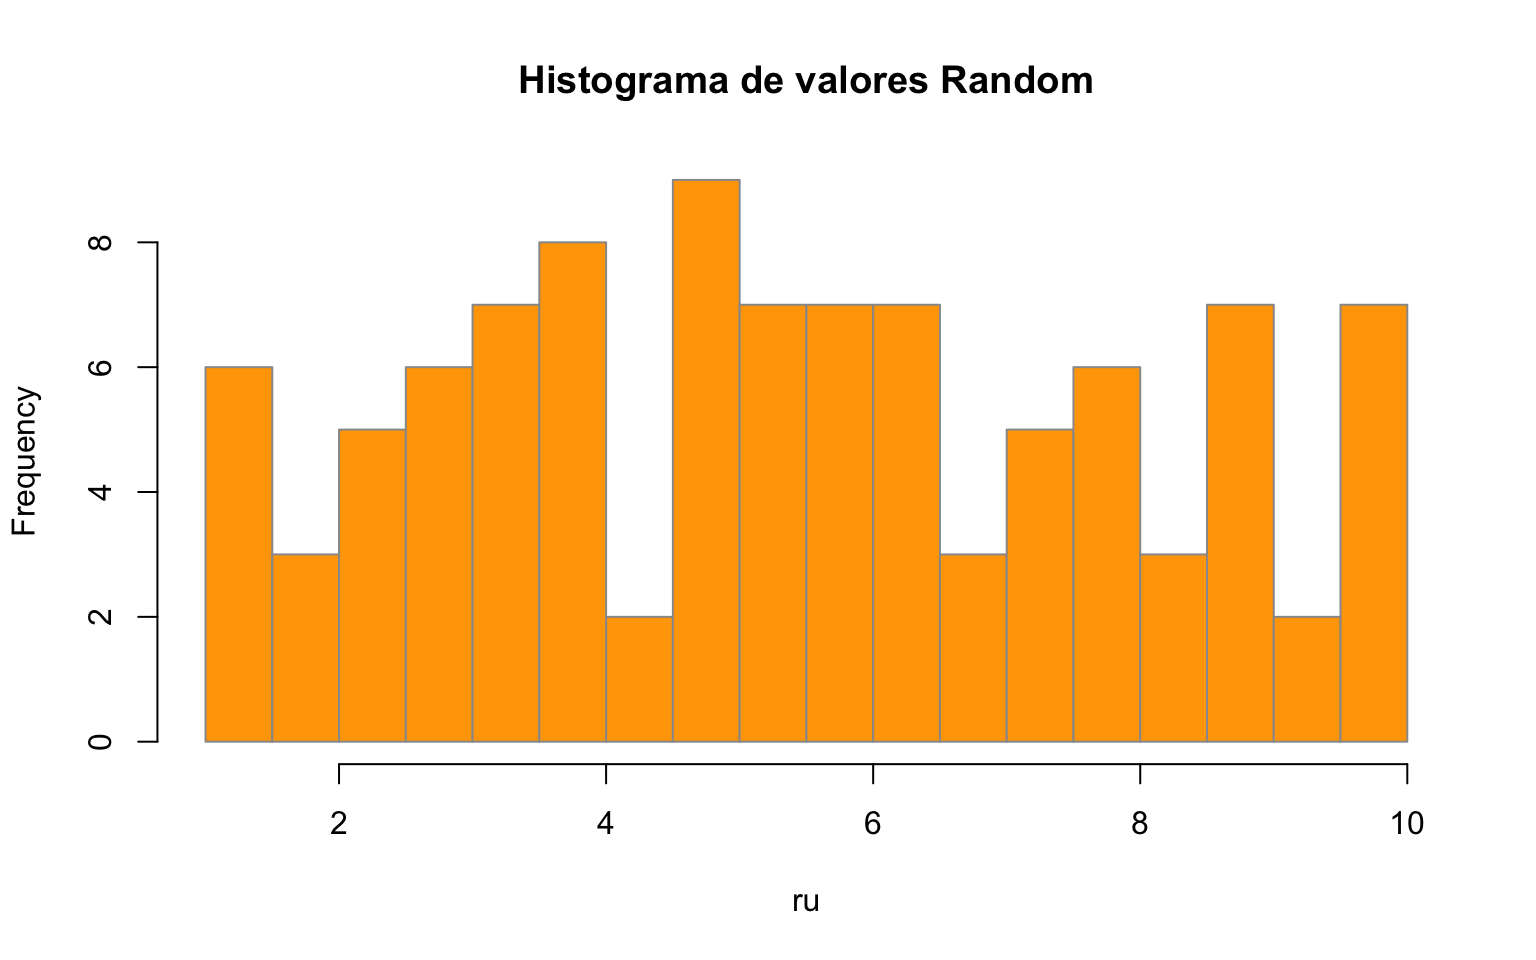
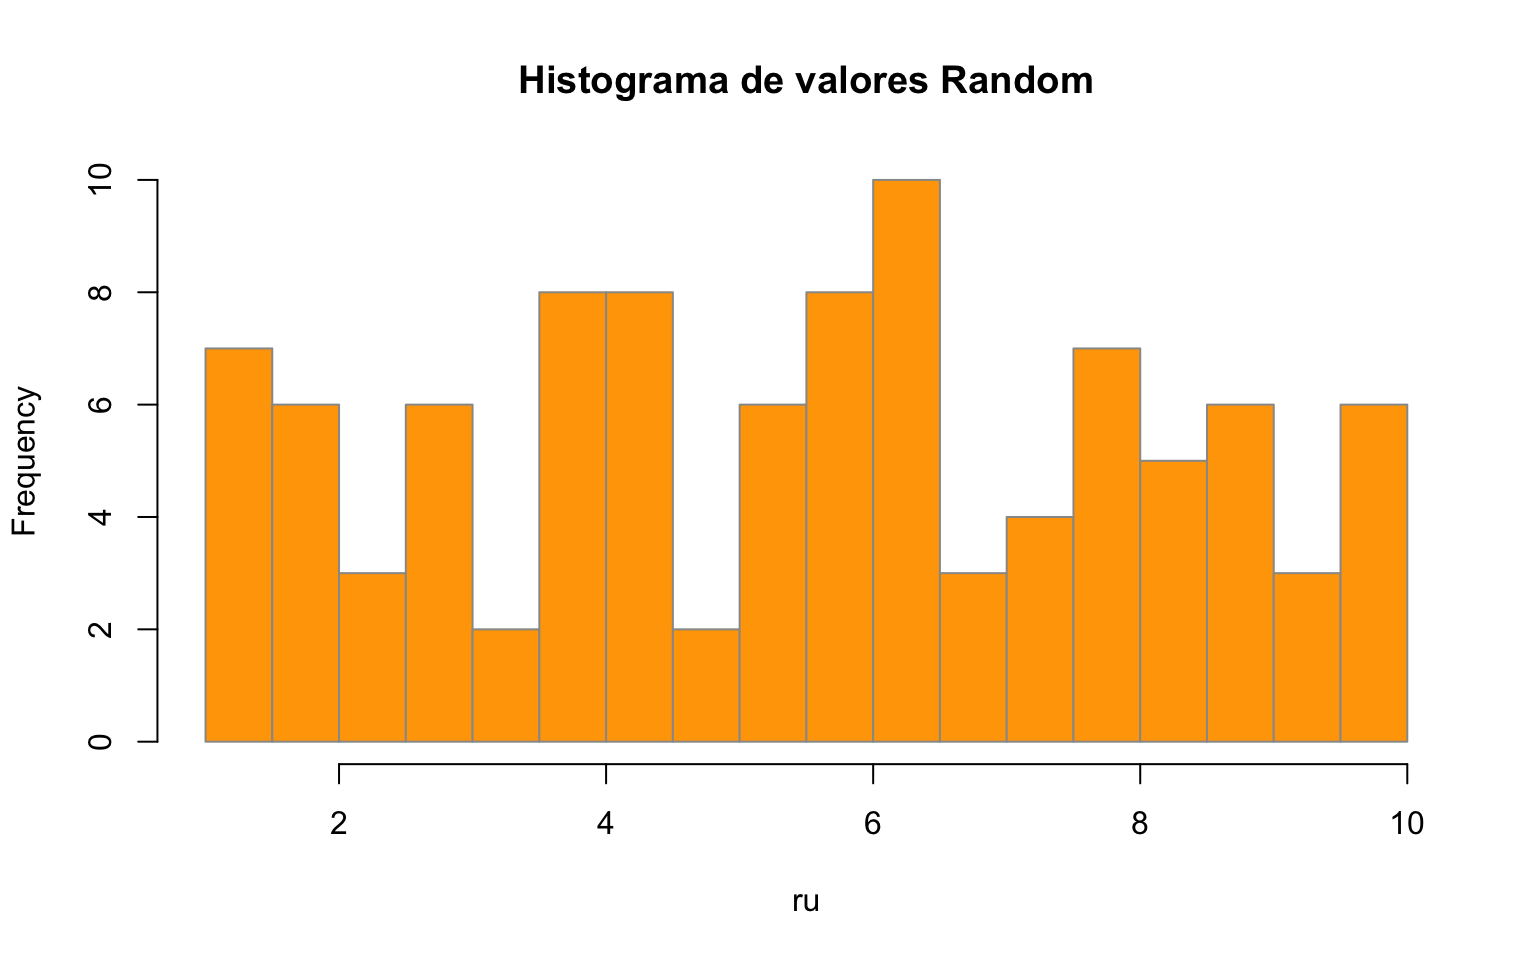
Built site for gh-pages

diff --git a/variables.html b/variables.html
@@ -340,19 +340,19 @@ pre > code.sourceCode > span > a:first-child::before { text-decoration: underlin
 <div class="sourceCode cell-code" id="cb7"><pre class="sourceCode r code-with-copy"><code class="sourceCode r"><span id="cb7-1"><a href="#cb7-1" aria-hidden="true" tabindex="-1"></a>ru <span class="ot">&lt;-</span> <span class="fu">runif</span>(<span class="at">n =</span> <span class="dv">100</span>, <span class="at">min =</span> <span class="dv">1</span>, <span class="at">max =</span> <span class="dv">10</span>)</span>
 <span id="cb7-2"><a href="#cb7-2" aria-hidden="true" tabindex="-1"></a>ru</span></code><button title="Copy to Clipboard" class="code-copy-button"><i class="bi"></i></button></pre></div>
 <div class="cell-output cell-output-stdout">
-<pre><code>  [1] 9.364794 9.405961 3.446937 1.143657 7.790617 6.331680 2.708188 8.525973
-  [9] 8.906059 3.911772 3.098803 4.347637 6.595388 1.684706 2.334308 2.964585
- [17] 2.299208 1.116792 7.075490 3.612429 5.896548 5.872014 6.139632 5.970821
- [25] 9.523985 5.026969 1.267298 6.040796 7.617490 3.744160 4.698695 6.129231
- [33] 7.539459 3.617860 3.609901 7.159684 6.247145 7.318131 2.551194 7.827134
- [41] 9.992904 4.645220 5.410871 9.939177 2.020247 9.840037 8.634489 8.747000
- [49] 9.767455 4.875300 3.943289 2.417178 9.795464 2.932537 1.308880 3.477499
- [57] 6.677996 9.516599 5.043260 5.885177 1.700747 4.669974 2.116707 5.304769
- [65] 8.793404 5.908590 7.174680 4.603505 7.747249 1.105016 8.431045 4.724835
- [73] 6.555342 3.609526 4.564234 3.099936 1.524147 8.018052 5.053753 3.223383
- [81] 4.821939 4.829116 3.294089 8.718067 3.091855 8.785385 1.374672 5.837628
- [89] 3.725694 5.780100 2.740712 7.554109 8.261153 4.395239 5.445585 5.234130
- [97] 7.109613 2.879535 6.485976 6.475617</code></pre>
+<pre><code>  [1] 9.766558 4.001305 2.674470 4.972460 1.377751 1.547231 9.592827 2.224902
+  [9] 6.395265 3.799361 9.569484 2.708178 1.589698 5.749328 1.427828 6.174432
+ [17] 8.435741 4.284370 6.026694 3.104485 9.608855 2.956097 1.942268 4.393382
+ [25] 1.568334 6.122131 5.256843 5.794737 3.924833 3.098238 9.557566 7.358962
+ [33] 1.232510 9.430014 5.581208 5.176501 1.414530 6.668074 1.415873 7.623618
+ [41] 8.876425 1.919855 8.710305 8.192844 8.153621 2.954293 4.102796 8.047436
+ [49] 5.839864 8.705719 2.435396 4.723213 6.860243 7.133437 9.371508 6.402924
+ [57] 2.711268 3.752204 1.977271 2.924585 6.685768 7.775030 2.043515 6.296905
+ [65] 9.253475 1.130046 6.478114 5.540516 6.065325 7.924649 3.999301 5.410898
+ [73] 7.885833 1.262563 4.151931 8.492371 7.743649 8.898496 5.289776 3.881800
+ [81] 8.516928 5.097212 8.843910 6.297773 5.508570 4.285822 4.368533 3.931727
+ [89] 3.539449 7.113213 4.158376 7.029794 3.709491 9.749183 7.518263 5.947302
+ [97] 5.475071 5.545592 7.825252 6.195130</code></pre>
 </div>
 </div>
 <div class="cell" data-layout-align="center">
@@ -371,7 +371,7 @@ pre > code.sourceCode > span > a:first-child::before { text-decoration: underlin
 <div class="cell">
 <div class="sourceCode cell-code" id="cb10"><pre class="sourceCode r code-with-copy"><code class="sourceCode r"><span id="cb10-1"><a href="#cb10-1" aria-hidden="true" tabindex="-1"></a><span class="fu">sample.int</span>(<span class="at">n =</span> <span class="dv">6</span>, <span class="at">size =</span> <span class="dv">10</span>, <span class="at">replace =</span> T)</span></code><button title="Copy to Clipboard" class="code-copy-button"><i class="bi"></i></button></pre></div>
 <div class="cell-output cell-output-stdout">
-<pre><code> [1] 3 3 3 2 2 6 6 1 3 6</code></pre>
+<pre><code> [1] 4 6 4 4 5 3 6 5 1 6</code></pre>
 </div>
 </div>
 </section>

diff --git a/control_r.html b/control_r.html
@@ -427,10 +427,10 @@ pre > code.sourceCode > span > a:first-child::before { text-decoration: underlin
 <span id="cb17-6"><a href="#cb17-6" aria-hidden="true" tabindex="-1"></a>  <span class="fu">print</span>(promedio)</span>
 <span id="cb17-7"><a href="#cb17-7" aria-hidden="true" tabindex="-1"></a>}</span></code><button title="Copy to Clipboard" class="code-copy-button"><i class="bi"></i></button></pre></div>
 <div class="cell-output cell-output-stdout">
-<pre><code>[1] 0.3372044
-[1] -0.3283601
-[1] 0.05708638
-[1] -0.5181844</code></pre>
+<pre><code>[1] 0.4972394
+[1] -0.4149327
+[1] 0.04616498
+[1] 0.2312123</code></pre>
 </div>
 </div>
 </section>

diff --git a/tarea_3.html b/tarea_3.html
@@ -250,7 +250,7 @@ ul.task-list li input[type="checkbox"] {
 <section id="antecedentes" class="level2">
 <h2 class="anchored" data-anchor-id="antecedentes">Antecedentes</h2>
 <ul>
-<li>Fecha de entrega: <strong>17 de Octubre 2023</strong></li>
+<li>Fecha de entrega: <strong>10 de Octubre 2023</strong></li>
 <li>Formato: Informe (docx, pdf) + Código (.R)</li>
 <li>Integrantes: 3 o 4</li>
 </ul>
